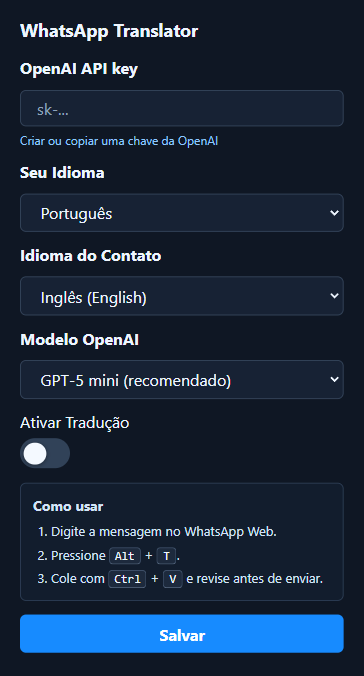
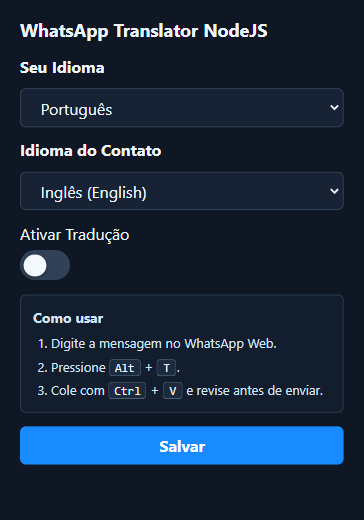
Update README popup screenshot

Changed region(s): [[0.0302, 0.0308, 0.967, 0.9846], [0.9066, 0.1231, 0.967, 0.2462], [0.9066, 0.5231, 0.967, 0.5846]]

diff --git a/README.md b/README.md
@@ -3,6 +3,8 @@
 Extensao do Chrome que traduz o rascunho atual da mensagem no WhatsApp Web antes do envio.
 Ela usa um fluxo baseado na area de transferencia para que voce possa revisar o texto traduzido antes de enviar.
 
+<img src="docs/popup-screenshot.png" alt="Popup da extensao WhatsApp Translator" width="75%" height="75%">
+
 ## Instalacao
 
 1. Instale as dependencias com `npm install`.